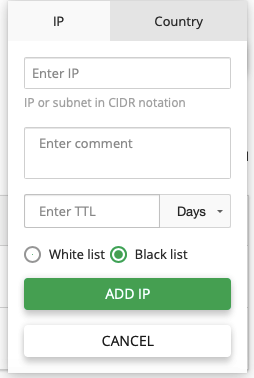
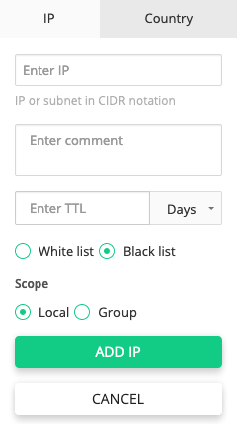
Add "Global IP White|Black list management" and "Devcot brute-force attack protection"

diff --git a/docs/dashboard/README.md b/docs/dashboard/README.md
@@ -275,6 +275,7 @@ In the pop-up choose <span class="notranslate">_IP_</span> tab and fill out:
   ::: tip Note
   You can grant or remove full access afterwards in the table, just click _Cog_ icon and choose <span class="notranslate">_Grant Full Access_</span> to grant or <span class="notranslate">_Remove Full Access_</span> to remove it.
   :::
+* If <span class="notranslate">[global Black | White list management](/dashboard/#global-black-white-list-ip-management)</span> is enabled, choose <span class="notranslate">_Scope: Local_</span> (IP will be added to White list on a current server) or <span class="notranslate">_Group_</span> (IP will be added to a group of servers and from this moment can be managed globally).
 
 When done, click <span class="notranslate">_Add IP_</span> to confirm your action or <span class="notranslate">_Cancel_</span> to hide pop-up.
 
@@ -411,6 +412,7 @@ In the pop-up choose <span class="notranslate">_IP_</span> tab and fill out:
 * <span class="notranslate">_Enter a comment_</span> – type a comment to the IP or subnet (optional)
 * <span class="notranslate">_Enter TTL_</span> in days or hours – time to live – for how long the IP will be in the Black List.
 * Choose <span class="notranslate">_Black List_</span> radio button
+* If <span class="notranslate">[global Black | White list management](/dashboard/#global-black-white-list-ip-management)</span> is enabled, choose <span class="notranslate">_Scope: Local_</span> (IP will be added to Black list on a current server) or <span class="notranslate">_Group_</span> (IP will be added to a group of servers and from this moment can be managed globally).
 
 When done, click <span class="notranslate">_Add IP_</span> to confirm your action or <span class="notranslate">_Cancel_</span> to close the pop-up.
 
@@ -419,10 +421,6 @@ When done, click <span class="notranslate">_Add IP_</span> to confirm your actio
 You will see a notification if the IP is added successfully.
 
 ![](/images/added_zoom92.png)
-
-::: tip Note
-Required Imunify360 Beta version 2.7.4 or later
-:::
 
 If <span class="notranslate">_Show only manually added_</span> switcher is disabled (default setting) than IPs automatically blocked by Imunify360 without access to CAPTCHA are displayed in the <span class="notranslate">Black List</span> along with manually added IPs. They have _**Imunify360**_ in the <span class="notranslate">**Source**</span> column and <span class="notranslate">_**Automatically blocked due to distributed attack**_</span> in <span class="notranslate">**Comment**</span> column.
 
@@ -479,6 +477,17 @@ You will see a notification if an IP is successfully removed.
 ![](/images/success_01_zoom75.png)
 
 See also: [How to use external files with the list of Black/White IPs](/firewall_config/#external-black-whitelist-management)
+
+### Global Black/White list IP management <sup><Badge text="4.5+"/> <Badge text="beta" type="warn"/></sup>
+
+Starting from Imunify360 version 4.5 an administrator can manage IPs globally, this means that you can blacklist or whitelist an IP not only on one server but on a group of servers. 
+
+Prior to manage IPs globally, you should create a group and add servers into it. This can be done via [CLN UI](https://cln.cloudlinux.com/). You can find the complete documentation on how to create and manage servers’ groups [here](https://docs.cln.cloudlinux.com/dashboard/#cloudlinux-backup).
+
+When you have created a group in CLN and added IPs into this group, go to _Imunify360 > Firewall > White list_ or _Black list_.
+You will see the _Scope_ column and controls (on clicking the _Add_ button) to manage IP locally (on a current server) or globally (on a group of servers).
+
+![](/images/global_IP_management.png)
 
 ### Blocked Ports
 
@@ -1257,13 +1266,15 @@ The purpose of the feature is significantly reducing false positive rate while i
 
 Click <span class="notranslate">_Save changes_</span> button on the bottom of the section to save changes.
 
-#### PAM <sup><Badge text="beta" type="warn"/> <Badge text="4.4+"/></sup>
+#### PAM <sup><Badge text="4.4+"/></sup>
 
-Tick the <span class="notranslate">_PAM brute-force attack protection_</span> checkbox to enable an advanced brute-force protection technique based on the combination of PAM module authorization, RBL check and IP blacklisting. 
+#### PAM brute-force attack protection
+
+Tick the <span class="notranslate">_PAM brute-force attack protection_</span> checkbox to enable an advanced brute-force protection technique based on the combination of PAM module authorization, RBL check, and IP blacklisting. 
 	
 ![](/images/pam_module.png)
 
-Or you can enable it via CLI with the following command:
+You can also enable it via CLI with the following command:
 
 <div class="notranslate">
 
@@ -1273,6 +1284,25 @@ imunify360-agent config update '{"PAM": {"enabled": true}}'
 </div>
 
 Click <span class="notranslate">_Save changes_</span> button on the bottom of the section to save changes.
+
+#### Exim+Dovecot brute-force attack protection <sup><Badge text="4.5+"/> <Badge text="Beta" type="warn"/></sup>
+
+Tick the <span class="notranslate">_Exim+Dovecot brute-force attack protection_</span> checkbox to enable advanced protection against Dovecot brute-force attacks. PAM module protects against IMAP/POP3 brute-force attack and prevents mail account from being compromised via brute-forcing.
+
+![](/images/dovecot.png)
+
+You can also enable it via CLI with the following command: 
+
+<div class="notranslate">
+
+```
+imunify360-agent config update '{"PAM.exim_dovecot_protection": {"enabled": true}}'
+```
+</div>
+
+Click <span class="notranslate">_Save changes_</span> button on the bottom of the section to save changes.
+
+
 
 #### Error Reporting
  

diff --git a/docs/features/README.md b/docs/features/README.md
@@ -27,3 +27,42 @@ This mode disables <span class="notranslate">[WebShield](/webshield/)</span> swi
 When the <span class="notranslate">_Low Resource Usage_</span> mode is activated it is reflected on the UI: an Imunify main menu changes color to light green, and an appropriate label appears on the top right.
 
 ![](/images/LowResourceUsage.png)
+
+## Exim+Dovecot brute-force attack protection <sup><Badge text="4.5+"/> <Badge text="beta" type="warn"/></sup>
+
+Exim+Dovecot brute-force attack protection is an advanced protection against Dovecot brute-force attacks. PAM module protects against IMAP/POP3 brute-force attack and prevents mail account from being compromised via brute-forcing.
+
+**How to enable Dovecot**
+
+<div class="notranslate">
+
+```
+imunify360-pam enable-dovecot
+```
+</div>
+
+**How to disable Dovecot**
+
+<div class="notranslate">
+
+```
+imunify360-pam disable-dovecot
+```
+</div>
+
+The options of the `pam_imunufy` are placed in the file: <span class="notranslate">`/etc/pam_imunify/i360.ini`</span>
+
+**Values**
+
+| | |
+|-|-|
+|<span class="notranslate">`USER_LOCK_TIMEOUT=5`</span>|timeout to lock a user in minutes|
+|<span class="notranslate">`USER_LOCK_ATTEMPTS=10`</span>|number of attempts after which a user should be locked|
+|<span class="notranslate">`USER_LOCK_MINUTES=5`</span>|a period during which attempts should be accounted for|
+|<span class="notranslate">`USER_IP_LOCK_TIMEOUT=5`</span>|timeout to lock a user/IP should in minutes|
+|<span class="notranslate">`USER_IP_LOCK_ATTEMPTS=10`</span>|number of attempts after which a user/IP should be locked|
+|<span class="notranslate">`USER_IP_LOCK_MINUTES=5`</span>|a period during which attempts should be accounted for|
+|<span class="notranslate">`IP_LOCK_TIMEOUT=5`</span>|timeout to lock an IP in minutes|
+|<span class="notranslate">`IP_LOCK_ATTEMPTS=10`</span>|number of attempts after which an IP should be locked|
+|<span class="notranslate">`IP_LOCK_MINUTES=5`</span>|period during which attempts should be accounted for|
+
